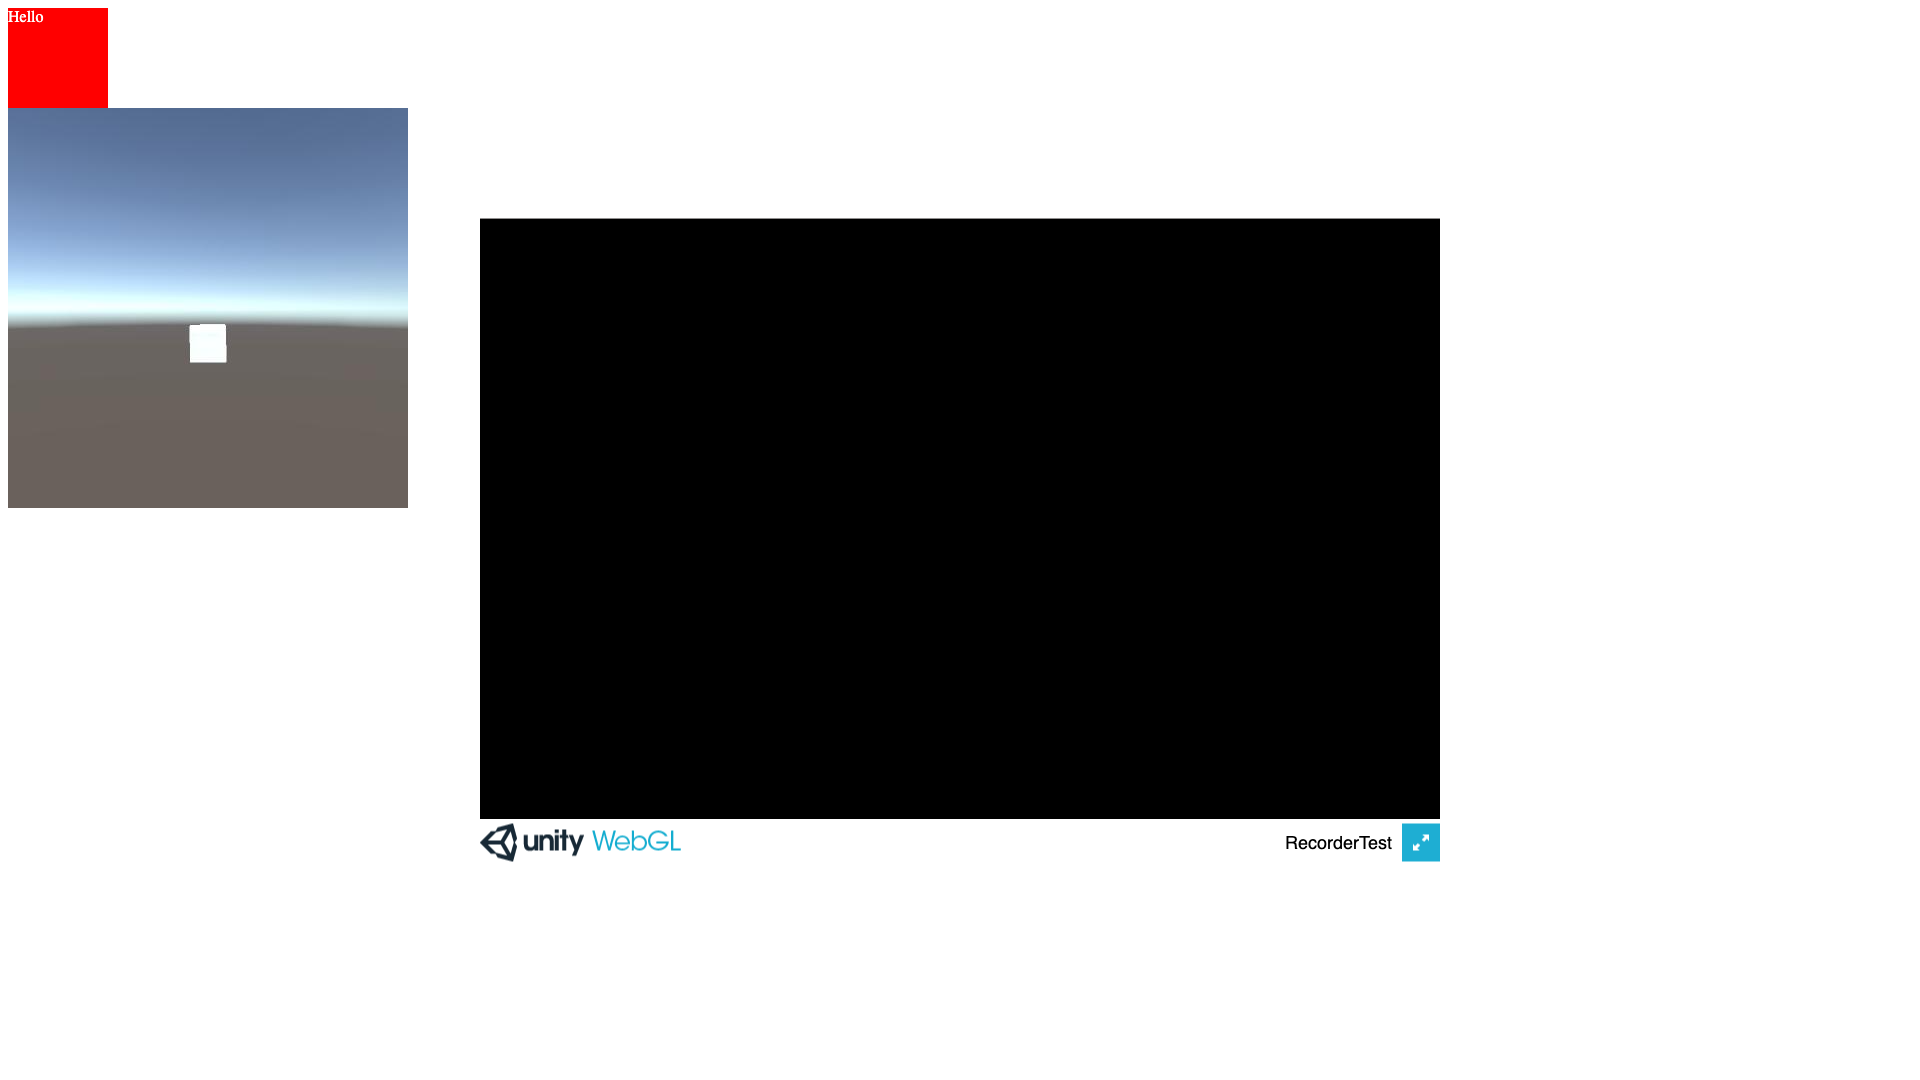
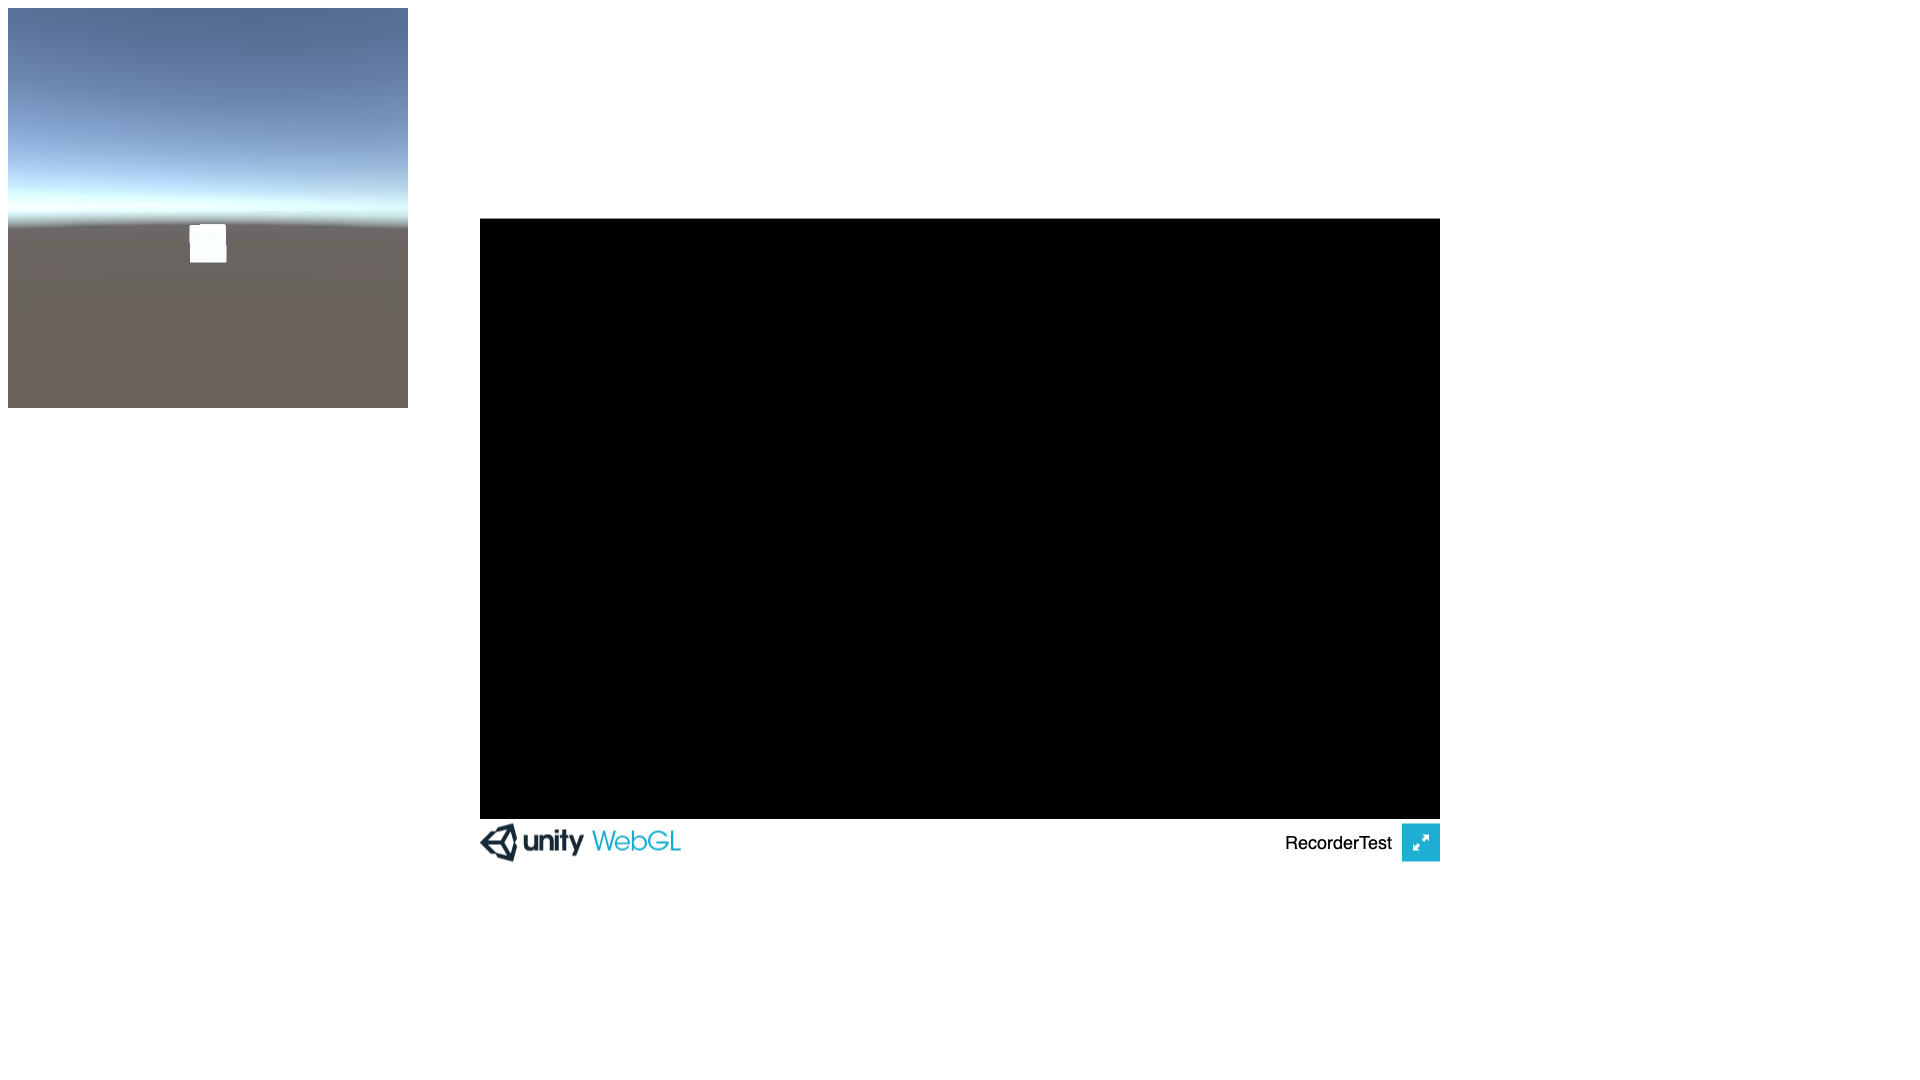
docs: add puppeteer explanation

Changed region(s): [[0.0, 0.0, 0.2188, 0.3361], [0.0, 0.3667, 0.2188, 0.4889]]

diff --git a/WebGl/handleDatabase.js b/WebGl/handleDatabase.js
@@ -87,6 +87,7 @@ function handleDatabase()
                 //console.log(imageSrc);
                 image.src = imageSrc;
                 
+                /*
                 // just a test to check if the html and css is changed properly
                 var div = document.querySelector("#anotherTest");
                 div.style.width = "100px";
@@ -94,6 +95,7 @@ function handleDatabase()
                 div.style.background = "red";
                 div.style.color = "white";
                 div.innerHTML = "Hello";
+                */
 
                 // puppeteer related, in order to take another screenshot
                 var eventImage = document.createElement("div");

diff --git a/WebGl/main.js b/WebGl/main.js
@@ -11,7 +11,8 @@ const puppeteer = require('puppeteer');
     
     page.on('console', msg => console.log('PAGE LOG:', msg.text()));
 
-    await page.goto('http://localhost:8080/WebGl/Build/');
+    //await page.setCacheEnabled(false);
+    await page.goto('http://localhost:8080/Build/');
 
     await page.screenshot({path: 'example2.png'});
     await page.waitForSelector("#imageready");

diff --git a/WebGl/Build/index.html b/WebGl/Build/index.html
@@ -14,7 +14,6 @@
     </script>
   </head>
   <body>
-    <div id="anotherTest"></div>
     <img id="testImage">
     <div class="webgl-content">
       <div id="gameContainer" style="width: 960px; height: 600px"></div>

diff --git a/README.md b/README.md
@@ -13,29 +13,29 @@ To make it easier to access, in **standalone** scenarios, in case you opt for th
 The **WebGl** build, in case you opt for the cli, will output it to `WebGl/Build`, and the textures will be saved into the persistent path, which is an **IndexedDB**.
 
 #### Windows x64
-`"C:\Program Files\Unity\Editor\Unity.exe” -quit -batchmode -projectPath ./ -executeMethod BuildHelper.BuildWin64 -logFile buildLog.txt`
+`$ "C:\Program Files\Unity\Editor\Unity.exe” -quit -batchmode -projectPath ./ -executeMethod BuildHelper.BuildWin64 -logFile buildLog.txt`
 
 #### Windows x86
-`"C:\Program Files\Unity\Editor\Unity.exe” -quit -batchmode -projectPath ./ -executeMethod BuildHelper.BuildWin -logFile buildLog.txt`
+`$ "C:\Program Files\Unity\Editor\Unity.exe” -quit -batchmode -projectPath ./ -executeMethod BuildHelper.BuildWin -logFile buildLog.txt`
 
 #### MacOS
-`/Applications/Unity/Hub/Editor/2018.4.10f1/Unity.app/Contents/MacOS/Unity -quit -batchmode -projectPath ./ -executeMethod BuildHelper.BuildMac -logFile buildLog.txt`
+`$ /Applications/Unity/Hub/Editor/2018.4.10f1/Unity.app/Contents/MacOS/Unity -quit -batchmode -projectPath ./ -executeMethod BuildHelper.BuildMac -logFile buildLog.txt`
 
 #### Linux
 Run the build resulting file as above, while setting `-executeMethod` to `BuildHelper.BuildLinux` or `BuildHelper.BuildLinux64` or `BuildHelper.BuildLinuxUniversal`
 
 #### WebGL
-`<unity-executable-or-app-path> -quit -batchmode -projectPath ./ -executeMethod BuildHelper.BuildWeb -logFile buildLog.txt`
+`$ <unity-executable-or-app-path> -quit -batchmode -projectPath ./ -executeMethod BuildHelper.BuildWeb -logFile buildLog.txt`
 
 ### Run Build in Batch Mode (Standalone)
 
 The project is prepared to run in batch mode through a coroutine that will save the first 30 frames to .bmp files to **Build/ScreenRecorder**.
 
 #### Windows
-`./Build/AutomaticRecording.exe -batchMode -logFile batchLog.txt`
+`$ ./Build/AutomaticRecording.exe -batchMode -logFile batchLog.txt`
 
 #### Mac
-`sudo ./Build/AutomaticRecording.app/Contents/MacOS/AutomaticRecording -batchMode -logFile batchLog.txt`
+`$ sudo ./Build/AutomaticRecording.app/Contents/MacOS/AutomaticRecording -batchMode -logFile batchLog.txt`
 
 ### Run WebGl build
 
@@ -56,15 +56,31 @@ This script will run after 30 frames are stored into the IndexedDB, and will cha
 
 **Note that the screen of the game will be black, because we are only concerned about running the project in headless/batch mode.**
 
-To actually run the build in the browser, you should do it through a local server, be it through Apache or python. For instance:
+To actually run the WebGL build in the browser, you will need a server. For instance:
 
-`python -m SimpleHTTPServer 8080`
+`$ python -m SimpleHTTPServer 8080`
 
-And open `http://localhost:8080/WebGl/Build/`
+And open `http://localhost:8080/<path-to-WebGl/Build/>`
+
+#### Run with Puppeteer
+
+The idea of using something like Puppeteer is to run the browser automatically and in headless mode, while still executing the build and recording the images.
+
+**There is an issue when running the browser in headless mode, however**. For now _it only works_ while `headless: false` (`WebGl/main.js`). You can try this by navigating to `WebGl` and running `yarn` to install the repository's dependencies. Make sure to have both `yarn` and `node js` installed first.
+
+After installing the dependencies (`node_modules`), if you still need a local server, run:
+
+`$ yarn server`
+
+To run the build automatically through puppeteer:
+
+`$ yarn start`
+
+The example is taking 2 screenshots after running for a few seconds (`example.png` and `example2.png`). If you run it in headless mode (`headless: true`), you will see that `example.png` is showing a black picture. The problem has to do with unity not rendering the textures properly when in headless mode.
 
 ### Video Rendering
 
-After getting the images, it is possible to render them to video (e.g., `.mp4`) through something like **ffpmeg**. 
+After getting the images (either locally or remotely), it is possible to render them to video (e.g., `.mp4`) through something like **ffpmeg**. 
 
 An example of that, for standalone builds, is to `cd` to `Build/ScreenRecorder` and finally run:
 
